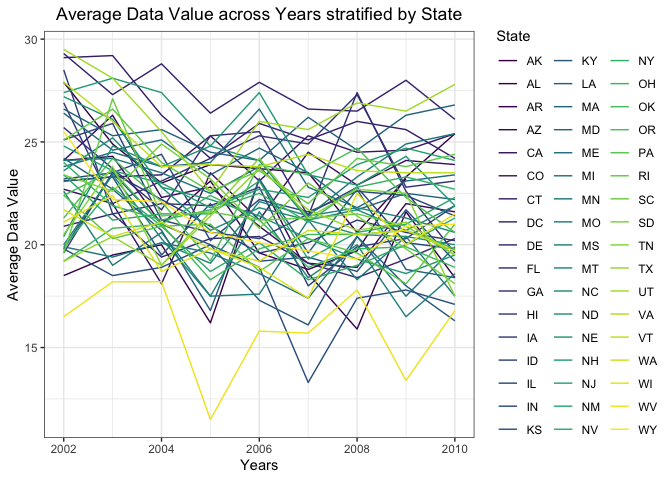
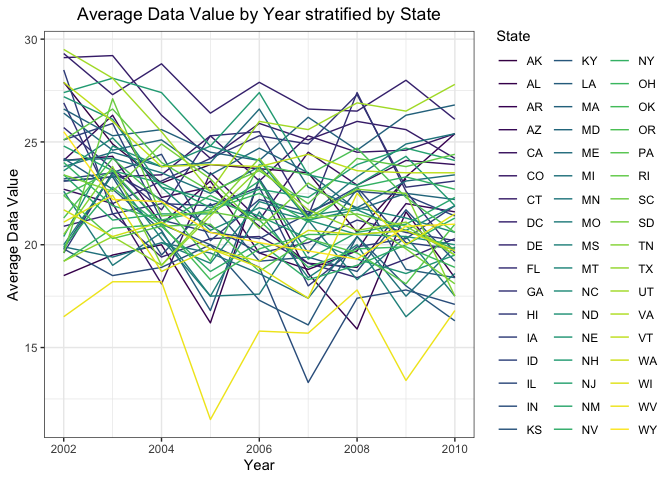
- Made minor grammar edits throughout problems 1 and 2. - Recoded the day of week variable for the 2x7 table in problem 1 - Corrected an error in the year variable in the two-panel plot in problem 2.

Changed region(s): [[0.0938, 0.0, 0.6875, 0.0625], [0.3438, 0.9375, 0.4062, 1.0]]

diff --git a/p8105_hw3_bpg2118.md b/p8105_hw3_bpg2118.md
@@ -15,7 +15,12 @@ This data set is 1,384,617 rows and 15 columns. Each observation in this
 data set represents a product in each order. Some key variables include
 order\_id, product\_id, department\_id and aisle\_id; these are the
 respective IDs for the order, product, department and aisle. There are
-131,209 orders, 39,123 products, 21 departments and 134 aisles.
+131,209 orders, 39,123 products, 21 departments and 134 aisles in the
+instacart data set.
+
+Other key variables include product\_name, the product name of the
+ordered item, and order\_dow, an encoded variable indicating the day of
+the week of the order.
 
 Here is some info on the different products that were ordered in the
 instacart data set:
@@ -33,7 +38,7 @@ the aisles with the most items ordered.
 
 ``` r
 # Grouping by aisle and summarizing the total number of items ordered for the
-# aisle arranged from largest to smallest
+# aisle arranged from most items ordered to least items ordered
 (most_items_ordered_aisles <- instacart %>%
                                 group_by(aisle_id) %>%
                                 summarize(items_ordered = n()) %>%
@@ -62,16 +67,18 @@ Next, we can create a plot showing the number of items ordered in each
 aisle. We will limit this to aisles with more than 10,000 items ordered.
 
 ``` r
-# Bar graph with bars ordered largest to smallest from left to right
+# Bar graph showing the total number of items ordered in each aisle.
+# Bars ordered largest to smallest from left to right.
+# X-tick labels are rotated 90 degrees to provide space for all of the aisle #s
   most_items_ordered_aisles %>%
     filter(items_ordered > 10000) %>%
     ggplot(aes(x = reorder(aisle_id, -items_ordered), y = items_ordered)) +
       geom_bar(stat = "identity", width = 0.5) +
       labs(
       title = "Number of Items Ordered in each Aisle
-               for Aisles with Orders over 10,000",
+               for Aisles with Items Ordered over 10,000",
       x = "Aisle Number",
-      y = "Items Ordered"
+      y = "Total Items Ordered"
     ) +
     theme_bw() +
     theme(axis.text.x = element_text(angle = 90, vjust = 0.5, hjust = 1),
@@ -84,6 +91,8 @@ aisle. We will limit this to aisles with more than 10,000 items ordered.
 Next, we can make a table of the three most popular items in each aisle.
 
 ``` r
+# Get order frequencies for each unique group (aisle number, product name)
+# Filter for the three largest order frequencies for each aisle
 instacart %>%
   group_by(aisle, product_name) %>%
   summarize(order_freq = n()) %>%
@@ -504,11 +513,11 @@ Next, we will make a table showing the mean hour of the day at which
 Pink Lady Apples and Coffee Ice Cream are ordered on each day of the
 week. For this table, we are going to recode the day of the week
 variable (order\_dow). It has an encoding of 0-6 and we are going to
-assume that this encoding maps to the day of the week Sunday to
-Saturday. This assumption is based on guidance from a TA response to my
-question about this on the P8105 class discussion board for homework
-\#3. The instacart data dictionary unfortunately does not specify the
-encoding for the order\_dow variable.
+assume that this encoding maps to the day of the week Sunday to Saturday
+respectively. This assumption is based on guidance from a TA response to
+my question about this encoding on the P8105 class discussion board for
+homework \#3. The instacart data dictionary unfortunately does not
+specify the encoding for the order\_dow variable.
 
 ``` r
 # Filter for products of interest
@@ -564,11 +573,11 @@ brfss_cleaned <- brfss_smart2010 %>%
   janitor::clean_names()
 ```
 
-Let’s create a tibble solely focused on the overall health topic in the
-BRFSS data set.
+Let’s create a tibble focused on the overall health topic in the BRFSS
+data set.
 
 ``` r
-# Filter topic on overall health, then mutate the response to be an ordered
+# Filter topic for overall health, then mutate the response to be an ordered
 # factor
 brfss_overall_health <- brfss_cleaned %>%
                           filter(topic == "Overall Health") %>%
@@ -587,7 +596,7 @@ observed in seven or more locations in 2002.
 ``` r
 # Filter to 2002 data
 # Group by state
-# Get all unique locations with the state
+# Get all unique locations within the state
 # Filter for unique locations greater or equal to 7 per state
 brfss_overall_health %>%
   filter(year == 2002) %>%
@@ -608,8 +617,8 @@ brfss_overall_health %>%
 | NJ           |              8 |
 | PA           |             10 |
 
-We can also use this table to see which states were observed in seven or
-more locations in 2010.
+We can also use this overall health table to see which states were
+observed in seven or more locations in 2010.
 
 ``` r
 # Filter to 2010 data
@@ -643,13 +652,16 @@ brfss_overall_health %>%
 | TX           |             16 |
 | WA           |             10 |
 
+There are more states with 7 or more locations in 2010 than there are in
+2002. FL, MA, NC, NJ and PA are in both tables.
+
 Next, let’s use the table focused on overall health to arrange a new
 table of only Excellent responses and only contains variables year,
-state, and an aggregated variable that is the mean data\_value among
-locations within a state.
+state, and an aggregate variable that is the mean data\_value among
+locations within the state.
 
 ``` r
-# Filter on Excellent Responses
+# Filter for Excellent Responses
 # Group by State and Year
 # Get a mean data value for each state-year group
 brfss_excellent_responses <- brfss_overall_health %>%
@@ -1109,14 +1121,14 @@ knitr::kable(brfss_excellent_responses)
 | WY           | 2010 |             21.0 |
 
 Let’s plot this new table of excellent health responses. We will plot
-the year on the x-axis, mean data\_value on the y-axis. We will plot one
-line for each state visualizing how each state’s mean data\_value
-changes through the years. Further, we will color each state’s a
-different color and label the state’s color in the legend located on the
-right side of the plot.
+the year on the x-axis and mean data\_value on the y-axis. We will plot
+one line for each state visualizing how each state’s mean data\_value
+changes over time. Further, we will color each state’s line a different
+color and label the state’s color in the legend located on the right
+side of the plot.
 
 ``` r
-# Plot excellent responses with year on the x-axis, average data value on the 
+# Plot excellent responses with year on the x-axis and average data value on the 
 # y-axis. Plot one line for each state and color each state using the 
 # viridis color package.
 brfss_excellent_responses %>%
@@ -1124,9 +1136,9 @@ brfss_excellent_responses %>%
     geom_line() +
     viridis::scale_color_viridis(discrete = TRUE, name = "State") +
   labs(
-    title = "Average Data Value across Years stratified by State",
+    title = "Average Data Value by Year stratified by State",
     y = "Average Data Value",
-    x = "Years",
+    x = "Year",
   ) +
   theme_bw() +
   theme(plot.title = element_text(hjust = 0.5))
@@ -1134,32 +1146,53 @@ brfss_excellent_responses %>%
 
 ![](p8105_hw3_bpg2118_files/figure-gfm/unnamed-chunk-12-1.png)<!-- -->
 
+We see in this plot that most average data values start between 20 and
+27.5 in 2002 and end between 17.5 and 25 in 2010. As such, there appears
+to be a slight decline in the average data value across states over time
+if we focus on the central tendency of the average data values for all
+states.
+
 Next, we will create a two-panel plot, for years 2006 and 2010,
-visualizing the distribution of data\_value for responses (“Poor” to
-“Excellent”) among locations in NY State.
+visualizing the distribution of data\_value for responses, from poor to
+excellent, among locations in NY State.
 
 Let’s use our overall health table to complete this task. We will create
-a boxplot to visualize the distribution of data\_value for each
-response.
+boxplots to visualize the distribution of data\_value for each response
+for years 2006 and 2010.
 
 ``` r
-# Filter for NY state and years 2002 and 2006
+# Filter for NY state and years 2006 and 2010
 # Create a boxplot with each health response on the x-axis and the
-# distribution of the data_value on the y-axis
+# data_value on the y-axis
+# Use facet_wrap() to create 2 panels: one for 2006 and one for 2010
 brfss_overall_health %>%
-  filter(locationabbr == "NY", year == 2002 | year == 2006) %>%
+  filter(locationabbr == "NY", year == 2006 | year == 2010) %>%
   ggplot(aes(x = response, y = data_value)) +
     geom_boxplot() +
     facet_wrap(~year) +
     theme_bw() +
   labs(
-    title = "NY Distribution of data_value by Response for 2002 and 2006",
+    title = "NY Distribution of data_value by Response for 2006 and 2010",
     x = "Response"
   ) +
   theme(plot.title = element_text(hjust = 0.5))
 ```
 
 ![](p8105_hw3_bpg2118_files/figure-gfm/unnamed-chunk-13-1.png)<!-- -->
+There are some disparities between the distribution of data\_value at
+locations in NY between 2006 and 2010. One difference is that the
+data\_value values of “Good” and “Very good” response groups are more
+similar in 2006 than they are in 2010. However, overall, the
+distribution of data\_value in 2006 and 2010 for locations in NY is
+quite similar. Poor responses have the lowest data\_value values,
+followed by Fair responses, Excellent responses, Good responses and
+lastly Very good responses with the highest data\_value values. This
+ordering of the data\_value values across response groups is the same
+for both 2006 and 2010 across locations in NY. It should be noted that
+although we are comparing the distribution of data\_value across
+response groups in years 2006 and 2010, no statistical tests were
+performed and the groups were strictly compared visually using the
+boxplots above.
 
 #### **Problem 3**
 
